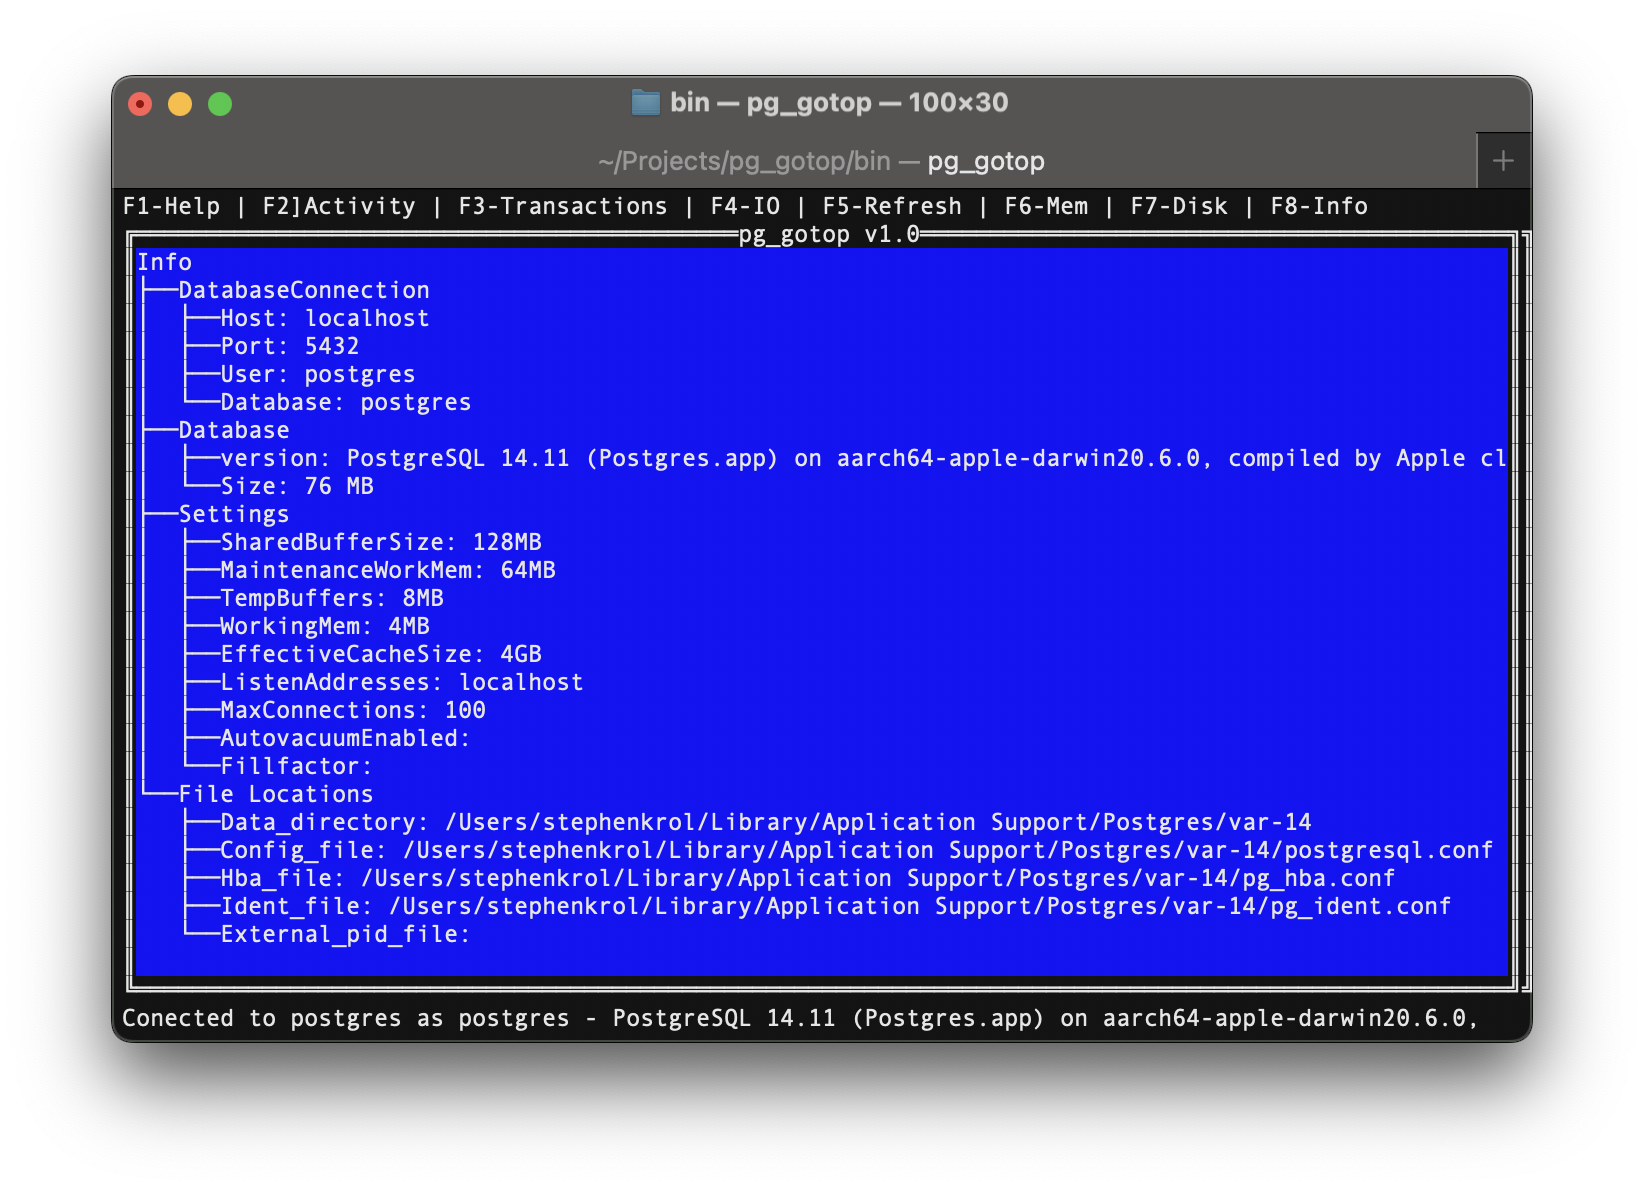
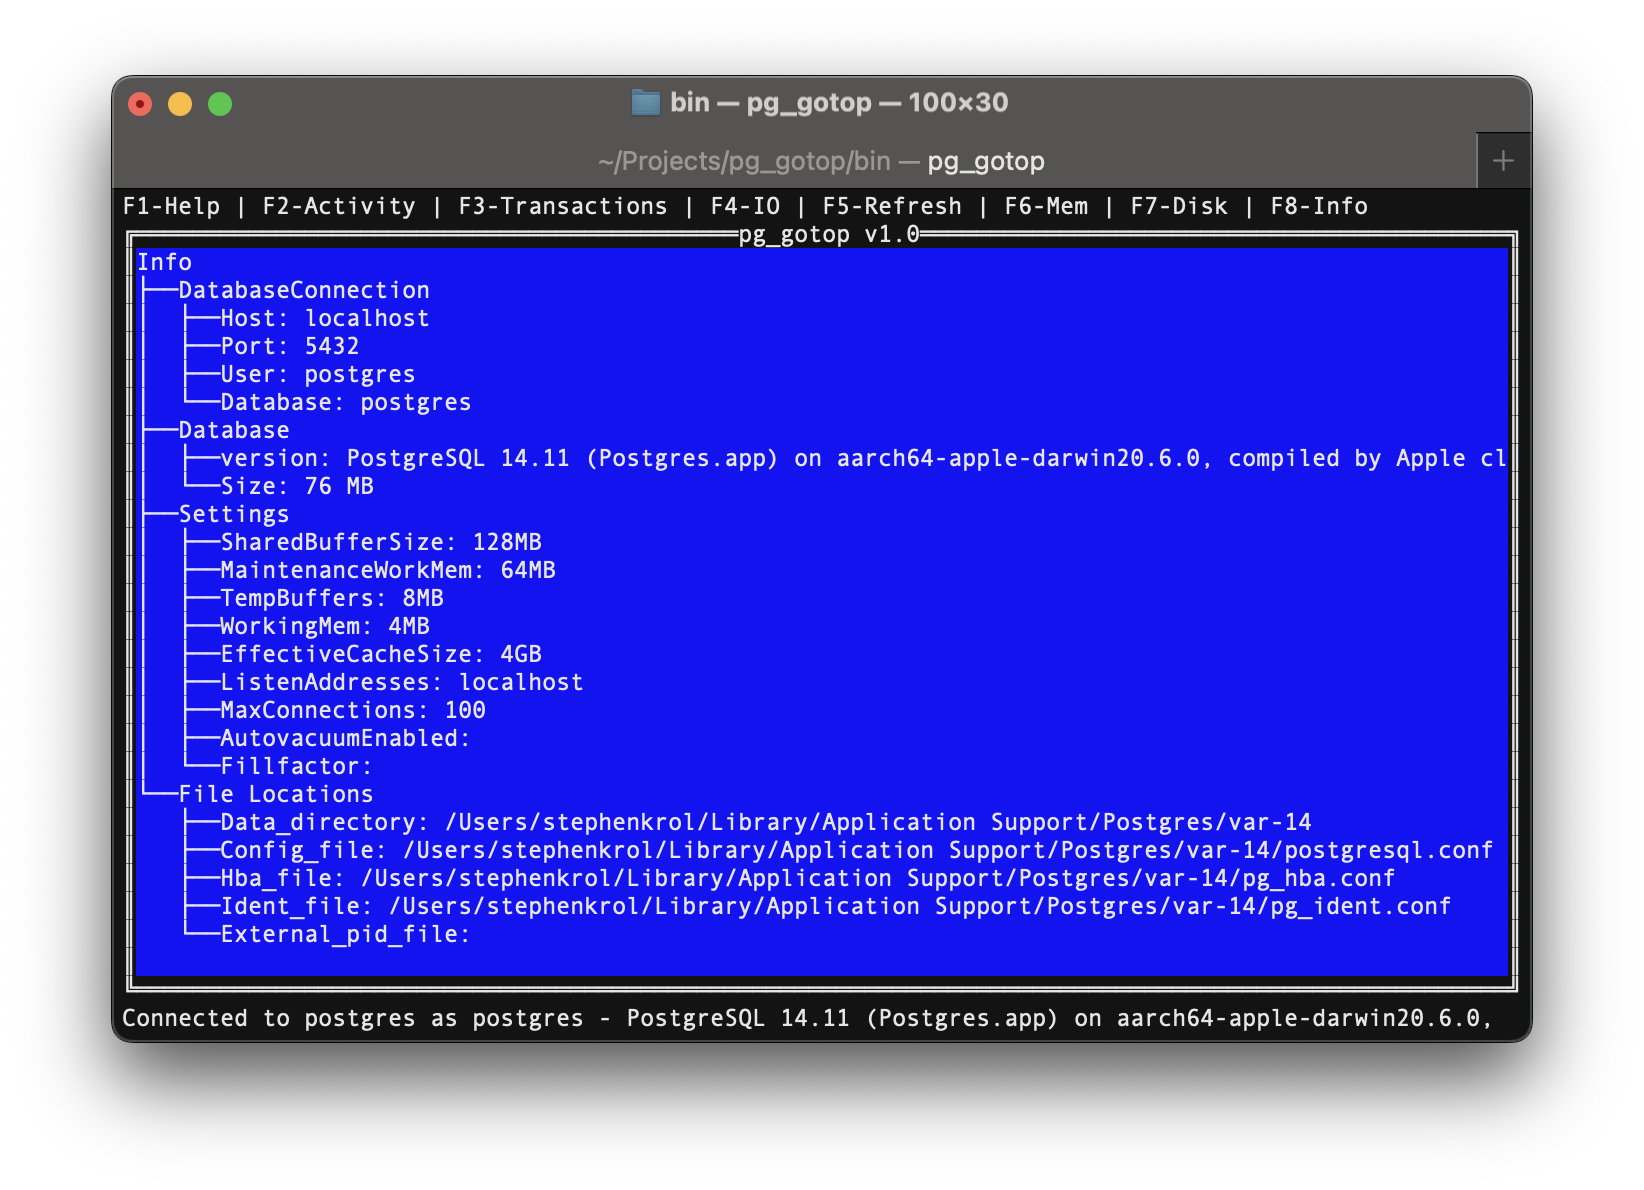
Fix typos

Changed region(s): [[0.0931, 0.8395, 0.8996, 0.8706]]

diff --git a/ui/application.go b/ui/application.go
@@ -47,7 +47,7 @@ func New(db *db.DbConnection) *App {
 
 	// Labels
 	helpLabel := tview.NewTextView().
-		SetText("F1-Help | F2]Activity | F3-Transactions | F4-IO | F5-Refresh | F6-Mem | F7-Disk | F8-Info")
+		SetText("F1-Help | F2-Activity | F3-Transactions | F4-IO | F5-Refresh | F6-Mem | F7-Disk | F8-Info")
 	statusLabel := tview.NewTextView().
 		SetText("Loading...")
 
@@ -160,7 +160,7 @@ func (a *App) setStatus(statusText string) {
 
 func (a App) Run() {
 	current := a.db.GetDbCurrentConnection()
-	status := fmt.Sprintf("Conected to %s as %s - %s (%s)", current.Database, current.User, current.Version, current.Size)
+	status := fmt.Sprintf("Connected to %s as %s - %s (%s)", current.Database, current.User, current.Version, current.Size)
 	a.setStatus(status)
 	if err := a.app.Run(); err != nil {
 		log.Fatal(err)

diff --git a/README.md b/README.md
@@ -5,11 +5,11 @@ Another postgresql monitoring tool.
 
 ## Intro
 
-pg_gotp is a `top`/`htop` alike utility used to monitor postgresql databases.
+pg_gotop is a `top`/`htop` alike utility used to monitor postgresql databases.
 It opens a database connection and lists different resources like: 
 current backend processes, long running transaction, IO and memory resources.
 
-It uses internaly the pg_catalog system tables like `pg_stats_activity` and uses system administration funcions like `pg_terminate_backend` to administrate and monitor a postgresql database.
+It uses internaly the `pg_catalog` system tables like `pg_stats_activity` and uses system administration funcions like `pg_terminate_backend` to administrate and monitor a postgresql databases.
 
 
 ## Usage
@@ -26,7 +26,7 @@ $ pg_gotop --version
 $ pg_gotop -v
 ```
 
-Running pg_gotop will prompt the password if needed to connect to database. 
+Running pg_gotop will prompt for a password if needed to be able to connect to the database. 
 
 The default values: 
 * **User**: postgres
